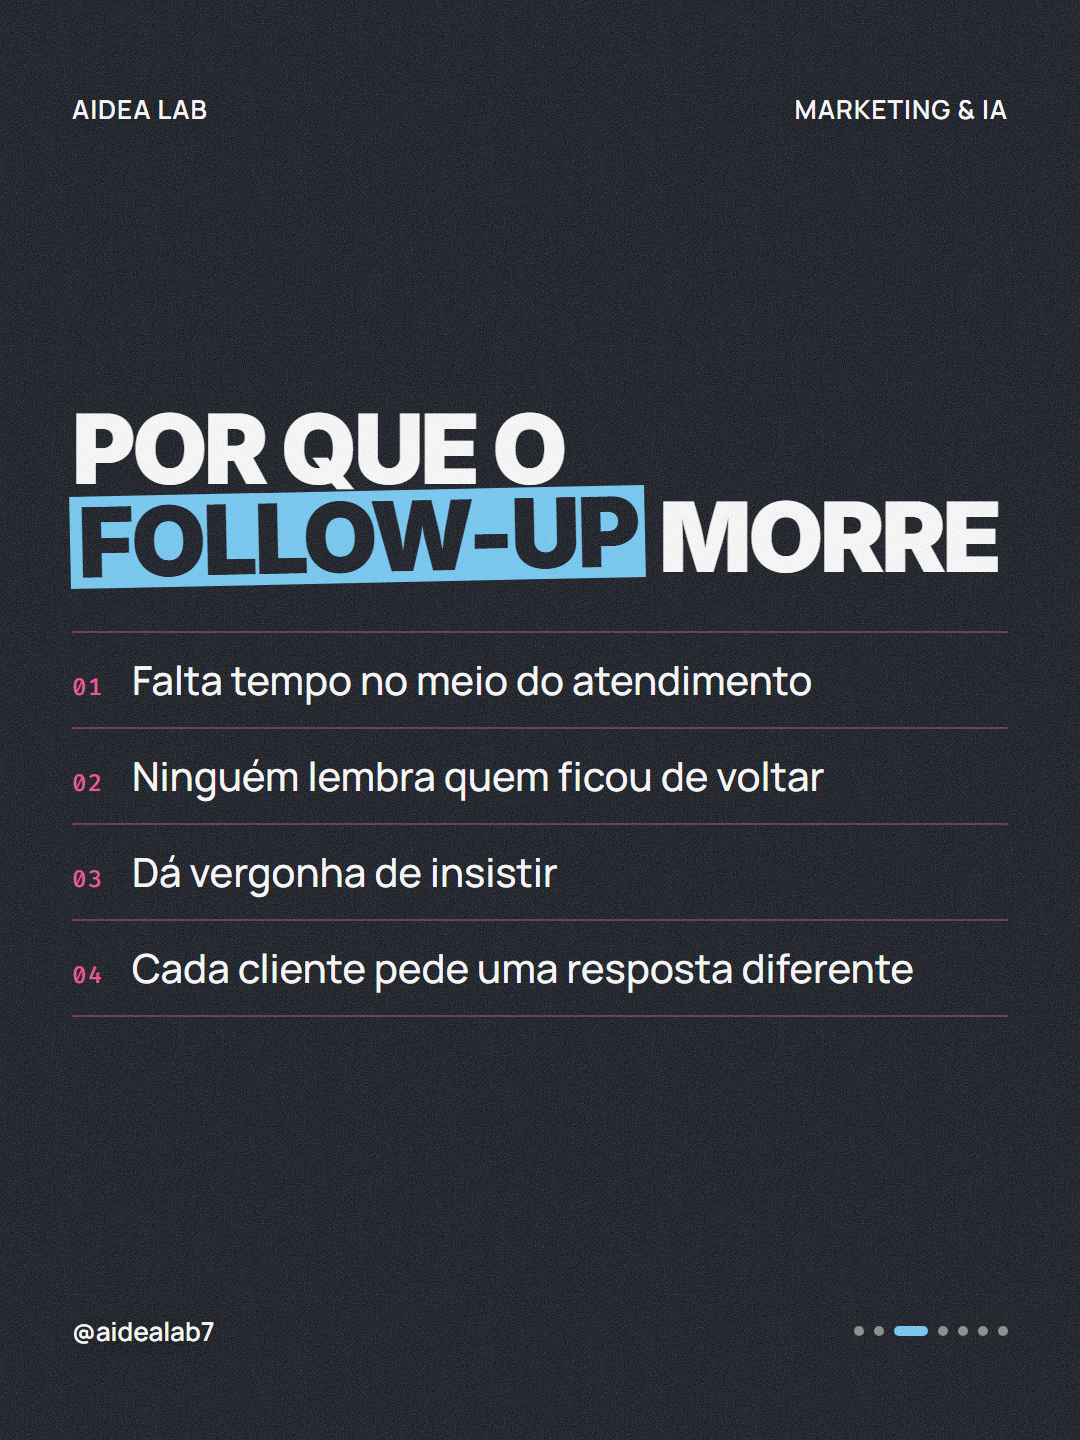
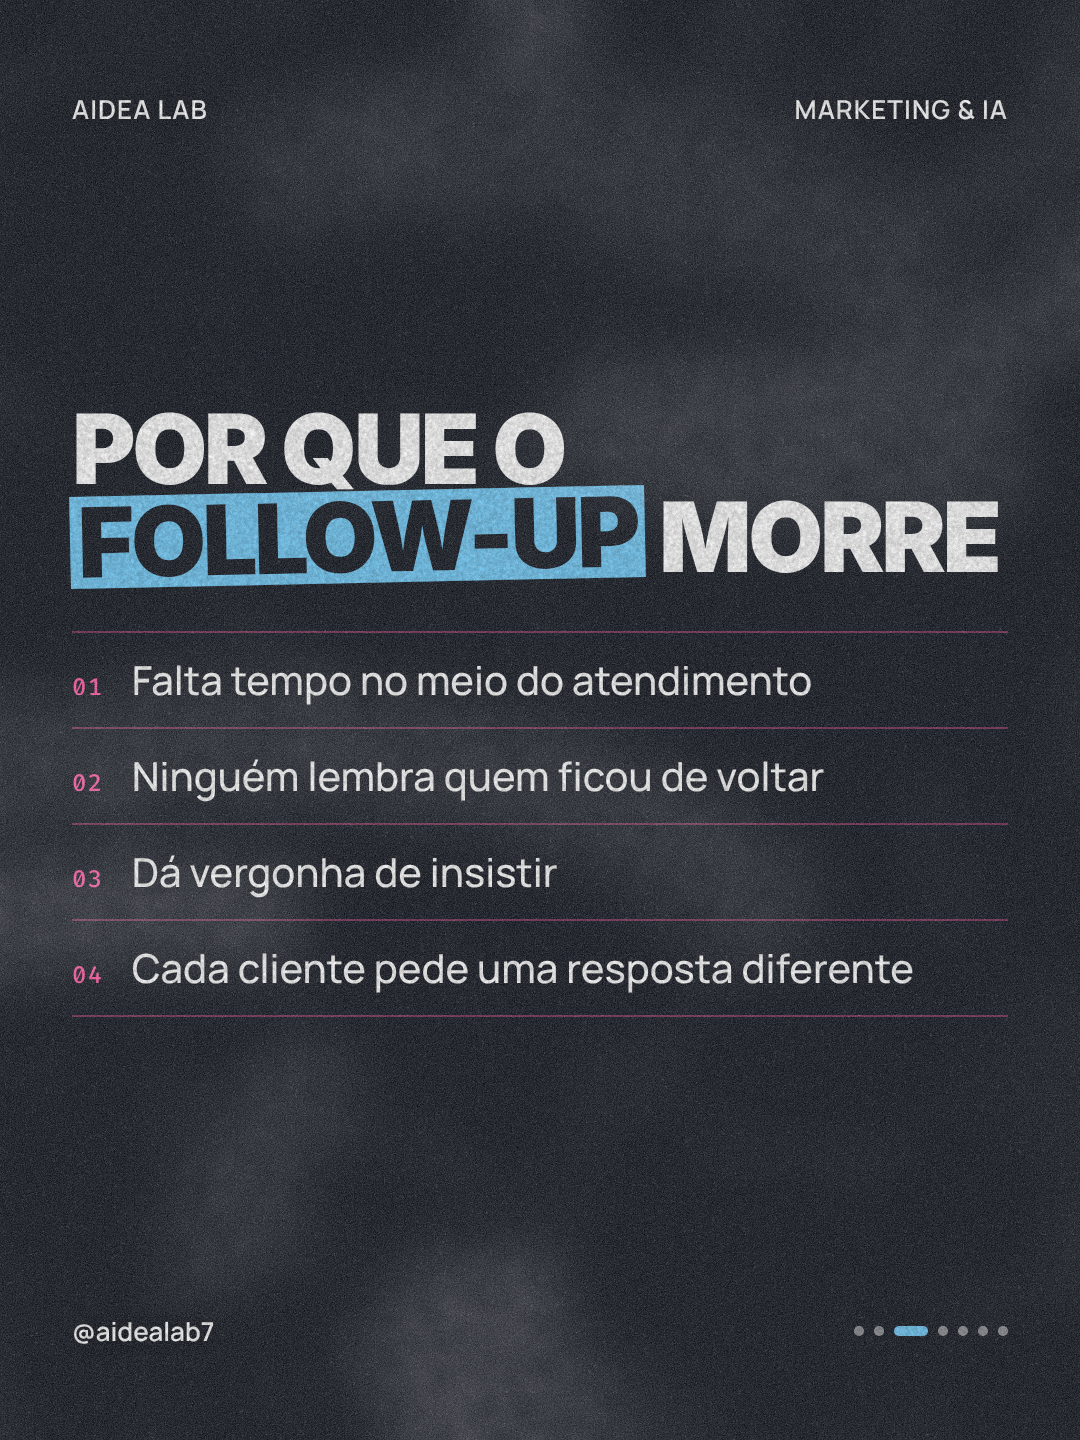
feat(aidealab): quadro-negro no slide 3 (cor da marca)
- motor/filtro_quadro.py: giz apagado, pó de giz, letras com falhas de giz
- render.py: textura_slide.slide3 aplicada quando o slide 3 é só de texto; tema liga
  "slide3": "quadro"
- sync_fila_drive.py e textura_foto_drive.py tratam o slide 3 (template do metadata)
- slide 3 dos carrosséis do repo re-renderizado

Claude-Session: https://claude.ai/code/session_012KyAE6tAMb32gBy6Q61w6r

diff --git a/motor/filtro_quadro.py b/motor/filtro_quadro.py
@@ -1,0 +1,47 @@
+"""
+Filtro "quadro-negro" (aprovado 2026-10-08, na cor da marca): marcas de giz apagado (arcos borrados do apagador),
+pó de giz, letras claras com falhas finas de giz e grão. A cor do fundo do slide é mantida. Determinístico (seed fixa).
+Aplicado no slide 3 inteiro quando ele é só de texto.
+
+Uso: python filtro_quadro.py <entrada> [saida]   (sem saida = sobrescreve)
+"""
+import sys
+
+import numpy as np
+from PIL import Image, ImageDraw, ImageFilter
+
+
+def _manchas(rng, w, h):
+    im = Image.new("L", (w, h), 0)
+    d = ImageDraw.Draw(im)
+    for _ in range(14):
+        cx, cy, r = rng.uniform(-200, w + 200), rng.uniform(-200, h + 200), rng.uniform(250, 700)
+        a0 = rng.uniform(0, 360)
+        d.arc([cx - r, cy - r * 0.6, cx + r, cy + r * 0.6], a0, a0 + rng.uniform(40, 140),
+              fill=int(rng.uniform(40, 110)), width=int(rng.uniform(60, 160)))
+    im = im.filter(ImageFilter.GaussianBlur(28))
+    n = Image.fromarray((rng.random((h // 8, w // 8)) * 255).astype("uint8")).resize((w, h), Image.BICUBIC).filter(ImageFilter.GaussianBlur(6))
+    m = np.asarray(im) / 255 * (0.55 + 0.9 * np.asarray(n) / 255)
+    nuvem = np.asarray(Image.fromarray((rng.random((h // 40, w // 40)) * 255).astype("uint8")).resize((w, h), Image.BICUBIC).filter(ImageFilter.GaussianBlur(30))) / 255
+    return np.clip(m * 0.9 + (nuvem - 0.5).clip(0) * 0.25, 0, 1)
+
+
+def quadro(im, seed=5):
+    rng = np.random.default_rng(seed)
+    a = np.asarray(im.convert("RGB")).astype(float) / 255
+    h, w = a.shape[:2]
+    texto = (a @ [0.2126, 0.7152, 0.0722]) > 0.55  # letras e marca-texto claros = giz
+    po = (rng.random((h, w)) > 0.985) * rng.uniform(0.05, 0.25, (h, w))
+    giz = np.asarray(Image.fromarray((po * 255).astype("uint8")).filter(ImageFilter.GaussianBlur(0.7))) / 255
+    camada = _manchas(rng, w, h) * 0.34 + giz
+    a = 1 - (1 - a) * (1 - camada[..., None])  # screen: pó branco sobre a lousa
+    falha = np.asarray(Image.fromarray((rng.random((h, w)) * 255).astype("uint8")).filter(ImageFilter.GaussianBlur(0.9))) / 255
+    a = a * np.where(texto, 0.72 + 0.34 * falha, 1)[..., None]
+    a += rng.normal(0, 0.018, (h, w))[..., None]
+    return Image.fromarray((a.clip(0, 1) * 255).astype("uint8"))
+
+
+if __name__ == "__main__":
+    if len(sys.argv) < 2:
+        sys.exit(__doc__)
+    quadro(Image.open(sys.argv[1])).save(sys.argv[2] if len(sys.argv) > 2 else sys.argv[1])

diff --git a/motor/textura_foto.py b/motor/textura_foto.py
@@ -1,16 +1,18 @@
 """
 Texturas por papel do slide, configuradas no tema.json:
   "textura_foto": {"hook": "halftone"}       só na foto (imagem e recorte), o texto fica limpo
-  "textura_slide": {"cta": "cloth_letras"}   no slide inteiro, letras incluídas (aplicada no PNG final)
+  "textura_slide": {"cta": "cloth_letras", "slide3": "quadro"}   no slide inteiro, letras incluídas (PNG final);
+                                             slide3 só quando o slide 3 é só de texto (T2/T2c/T3 sem imagem)
 - halftone: filtro_halftone.halftone (retícula de impresso)
 - cloth: trama de tecido assets/pano.png em soft-light 55% (a mesma da engine otalogia, --tex-pano)
 - cloth_letras: cloth + ±9% de luz/sombra dos fios, para a trama aparecer também nas letras brancas
+- quadro: quadro-negro na cor da marca (filtro_quadro.quadro)
 
 O render.py aplica na `imagem` e no `recorte` (alfa preservado) antes de desenhar o texto.
 Para slides já renderizados (fila/Drive, sem as fotos de origem), `aplicar_slide` protege o texto com uma máscara
 de cor + forma (branco, ciano quente, pílula do CTA) e texturiza o resto.
 
-Uso: python textura_foto.py <halftone|cloth|cloth_letras> <entrada> [saida] [--slide]   (--slide = só fora do texto)
+Uso: python textura_foto.py <halftone|cloth|cloth_letras|quadro> <entrada> [saida] [--slide]   (--slide = só fora do texto)
 """
 import sys
 from pathlib import Path
@@ -20,6 +22,7 @@ from PIL import Image
 from scipy import ndimage
 
 from filtro_halftone import halftone
+from filtro_quadro import quadro
 
 PANO = Path(__file__).resolve().parent / "assets" / "pano.png"
 
@@ -40,7 +43,7 @@ def cloth_letras(im):
     return Image.fromarray(((t * (1 + 0.09 * p)[..., None]).clip(0, 1) * 255).astype("uint8"))
 
 
-FILTROS = {"halftone": halftone, "cloth": cloth, "cloth_letras": cloth_letras}
+FILTROS = {"halftone": halftone, "cloth": cloth, "cloth_letras": cloth_letras, "quadro": quadro}
 
 
 def aplicar(im, tipo):

diff --git a/agente aidealab/automation/sync_fila_drive.py b/agente aidealab/automation/sync_fila_drive.py
@@ -41,8 +41,14 @@ sys.path.insert(0, str(REPO / "motor"))
 TEMA = REPO / "agente aidealab" / "clientes" / "aidealab" / "design-system" / "tema" / "tema.json"
 
 
+def slide3_texto(meta):
+    """Slide 3 só de texto (T2/T2c/T3), pelo campo "template" do metadata (ex.: "T1-T2-T3-T5-T2c-T2-T4")."""
+    t = (meta.get("template") or "").split("-")
+    return len(meta.get("slides", [])) > 3 and len(t) > 2 and t[2] in ("T2", "T2c", "T3")
+
+
 def aplicar_textura(d, meta):
-    """Texturas do hook (1º slide) e do CTA (último) conforme o tema: "textura_foto" só fora do texto (máscara) e
+    """Texturas do hook (1º slide), do CTA (último) e do slide 3 só de texto conforme o tema: "textura_foto" só fora do texto (máscara) e
     "textura_slide" no slide inteiro, letras incluídas. Idempotente: pula pasta com qualquer marca de textura
     ("textura_foto", "textura_slide" ou o legado "halftone"); as já marcadas são refeitas pelo workflow
     textura-foto-drive.yml, que parte da versão limpa no histórico do Drive."""
@@ -57,7 +63,10 @@ def aplicar_textura(d, meta):
         return False
     tema = ler(TEMA)
     foto, slide = tema.get("textura_foto") or {}, tema.get("textura_slide") or {}
-    for papel, s in (("hook", meta["slides"][0]), ("cta", meta["slides"][-1])):
+    alvos = [("hook", meta["slides"][0]), ("cta", meta["slides"][-1])]
+    if slide3_texto(meta):
+        alvos.append(("slide3", meta["slides"][2]))
+    for papel, s in alvos:
         f = d / s["arquivo"]
         if foto.get(papel):
             aplicar_slide(Image.open(f), foto[papel]).save(f)

diff --git a/agente aidealab/automation/cloud/textura_foto_drive.py b/agente aidealab/automation/cloud/textura_foto_drive.py
@@ -1,4 +1,4 @@
-"""Refaz as texturas do hook e do CTA nas pastas de 06-Aprovados-para-Postar/FILA e de 04-Carrosseis (aidealab).
+"""Refaz as texturas do hook, do CTA e do slide 3 (só de texto) nas pastas de 06-Aprovados-para-Postar/FILA e de 04-Carrosseis (aidealab).
 
 Para workflow textura-foto-drive.yml (GitHub Actions, credenciais do Drive nos secrets). Aplica a configuração atual
 do tema ("textura_foto" só fora do texto, "textura_slide" no slide inteiro) sempre a partir da versão LIMPA de cada
@@ -54,6 +54,11 @@ def limpa(svc, fid):
     return baixar(svc.revisions().get_media(fileId=fid, revisionId=r["id"]))
 
 
+def slide3_texto(meta):
+    t = (meta.get("template") or "").split("-")
+    return len(meta.get("slides", [])) > 3 and len(t) > 2 and t[2] in ("T2", "T2c", "T3")
+
+
 def main():
     svc = get_service()
     tema = json.loads(TEMA.read_text(encoding="utf-8"))
@@ -75,7 +80,10 @@ def main():
         if meta.get("textura_foto") == foto and meta.get("textura_slide") == slide and not meta.get("halftone"):
             continue
         novos = {}
-        for papel, s in (("hook", meta["slides"][0]), ("cta", meta["slides"][-1])):
+        alvos = [("hook", meta["slides"][0]), ("cta", meta["slides"][-1])]
+        if slide3_texto(meta):
+            alvos.append(("slide3", meta["slides"][2]))
+        for papel, s in alvos:
             arq = s["arquivo"]
             if arq not in fs:
                 continue

diff --git a/motor/render.py b/motor/render.py
@@ -118,6 +118,9 @@ def main():
     out_dir.mkdir(parents=True, exist_ok=True)
     # tema "textura_slide" {"hook"/"cta": tipo}: textura no slide inteiro, letras incluídas
     tsl = {1: tema.get("textura_slide", {}).get("hook"), n: tema.get("textura_slide", {}).get("cta")}
+    s3 = data["slides"][2] if n > 3 else {}
+    if s3.get("template") in ("T2", "T2c", "T3") and not s3.get("imagem"):  # slide 3 só de texto
+        tsl[3] = tema.get("textura_slide", {}).get("slide3")
     for i, b in enumerate(shots, 1):
         png = out_dir / f"slide-{i:02d}.png"
         png.write_bytes(b)

diff --git a/agente aidealab/clientes/aidealab/design-system/templates/templates.md b/agente aidealab/clientes/aidealab/design-system/templates/templates.md
@@ -59,6 +59,7 @@ quanto for preciso.
 ## Texturas dos slides de texto (2026-10-05)
 
 - Slide 3: `"textura": "grain"`, só grão forte sobre o fundo liso, sem gradiente nem brilho de cor (nada de spotlight ciano ou rosa). O `compor.py` marca sozinho.
+- Slide 3 só de texto: quadro-negro na cor da marca por cima (`motor/filtro_quadro.py`: giz apagado, pó de giz, letras com falhas de giz), no slide inteiro, pelo `"textura_slide": {"slide3": "quadro"}` do `tema.json` (aprovado 2026-10-08).
 - Hook e CTA com personagem: título bold ATRÁS DO TOPO DA CABEÇA (cabelo/testa; capa de revista), nunca atrás do rosto nem do tronco/costas, e a frase handwritten (emocao) NA FRENTE do sujeito, sobre o corpo e nunca no rosto; o `compor.py` escolhe sozinho sempre que houver folga acima da cabeça (topo da cabeça em ~1/3 do quadro).
 - Texturas do hook e do CTA, pelo `tema.json` (`motor/textura_foto.py`): hook (slide 1) = `"textura_foto": {"hook": "halftone"}`, só na foto (imagem e recorte, antes do texto; texto limpo); CTA (último) = `"textura_slide": {"cta": "cloth_letras"}`, a trama de tecido `motor/assets/pano.png` (soft-light 55%, a mesma da engine otalogia) + ±9% de luz/sombra dos fios no slide INTEIRO, letras incluídas (aprovado 2026-10-08). O `sync_fila_drive.py` aplica nos aprovados que entram na FILA (marca `textura_foto`/`textura_slide` no metadata); o workflow `textura-foto-drive.yml` refaz as pastas já existentes a partir da versão limpa do Drive.
 - Demais slides de lista e o de conclusão: `"textura": "led"`.
